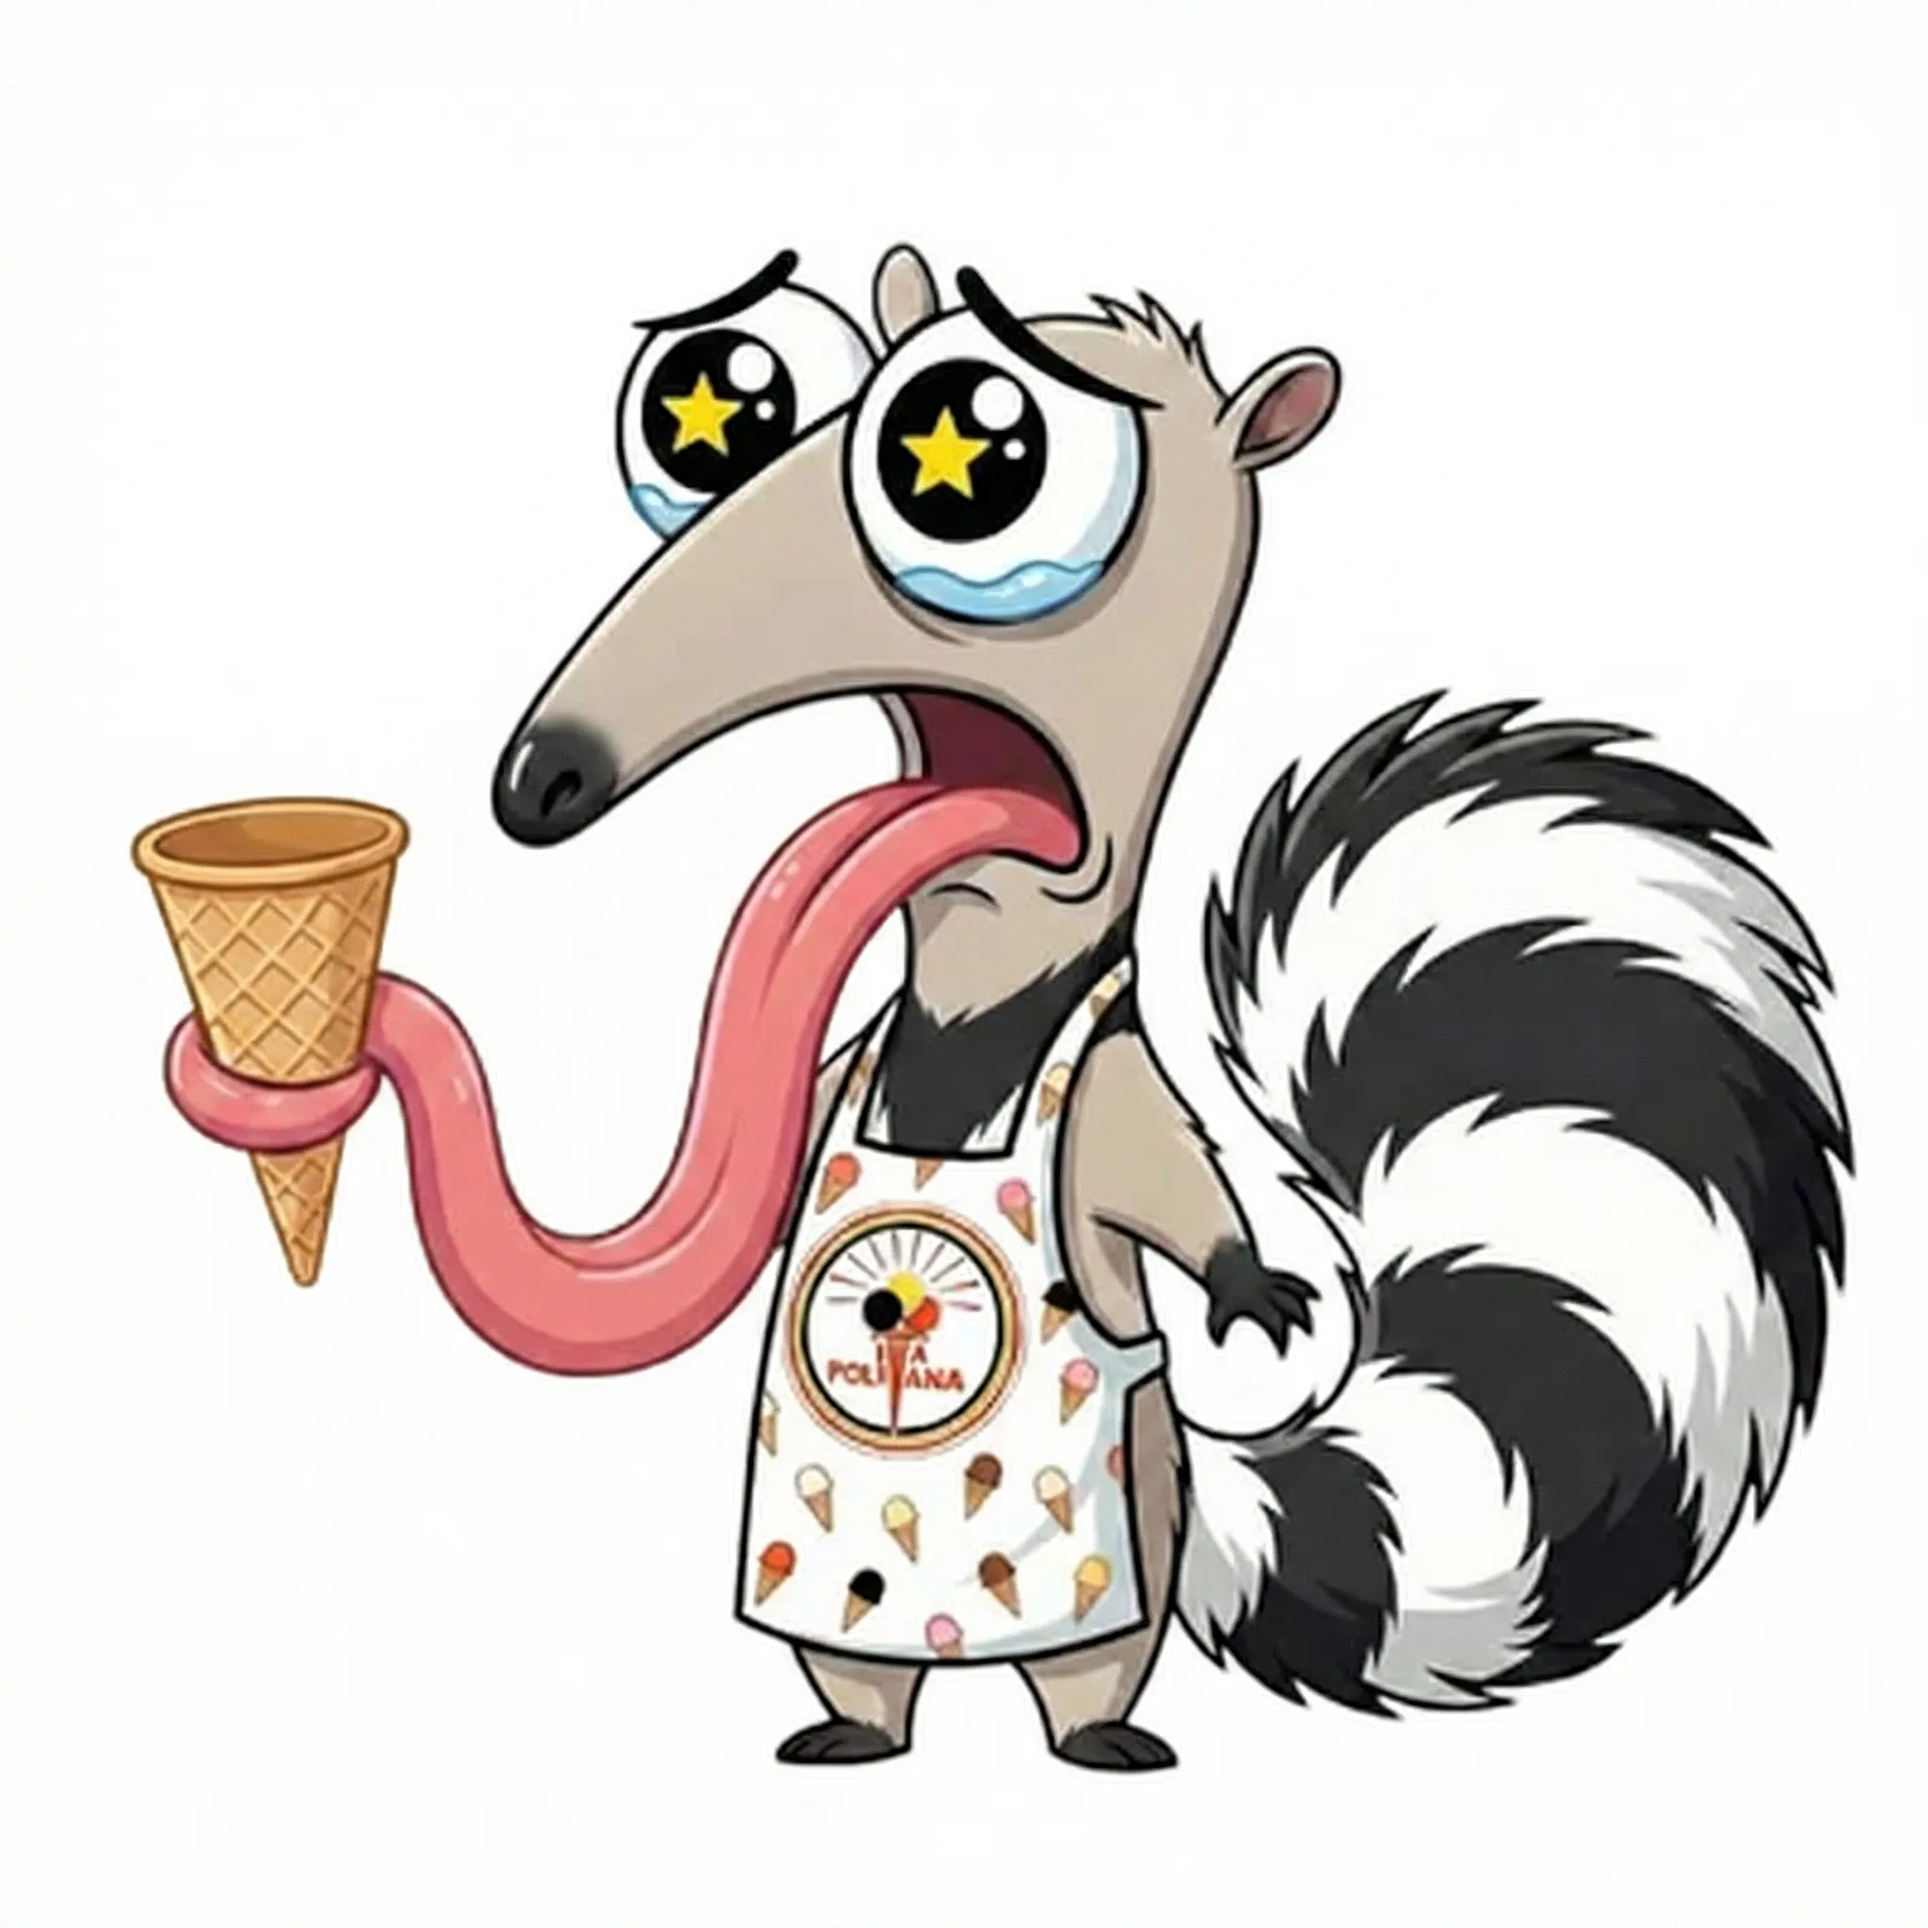
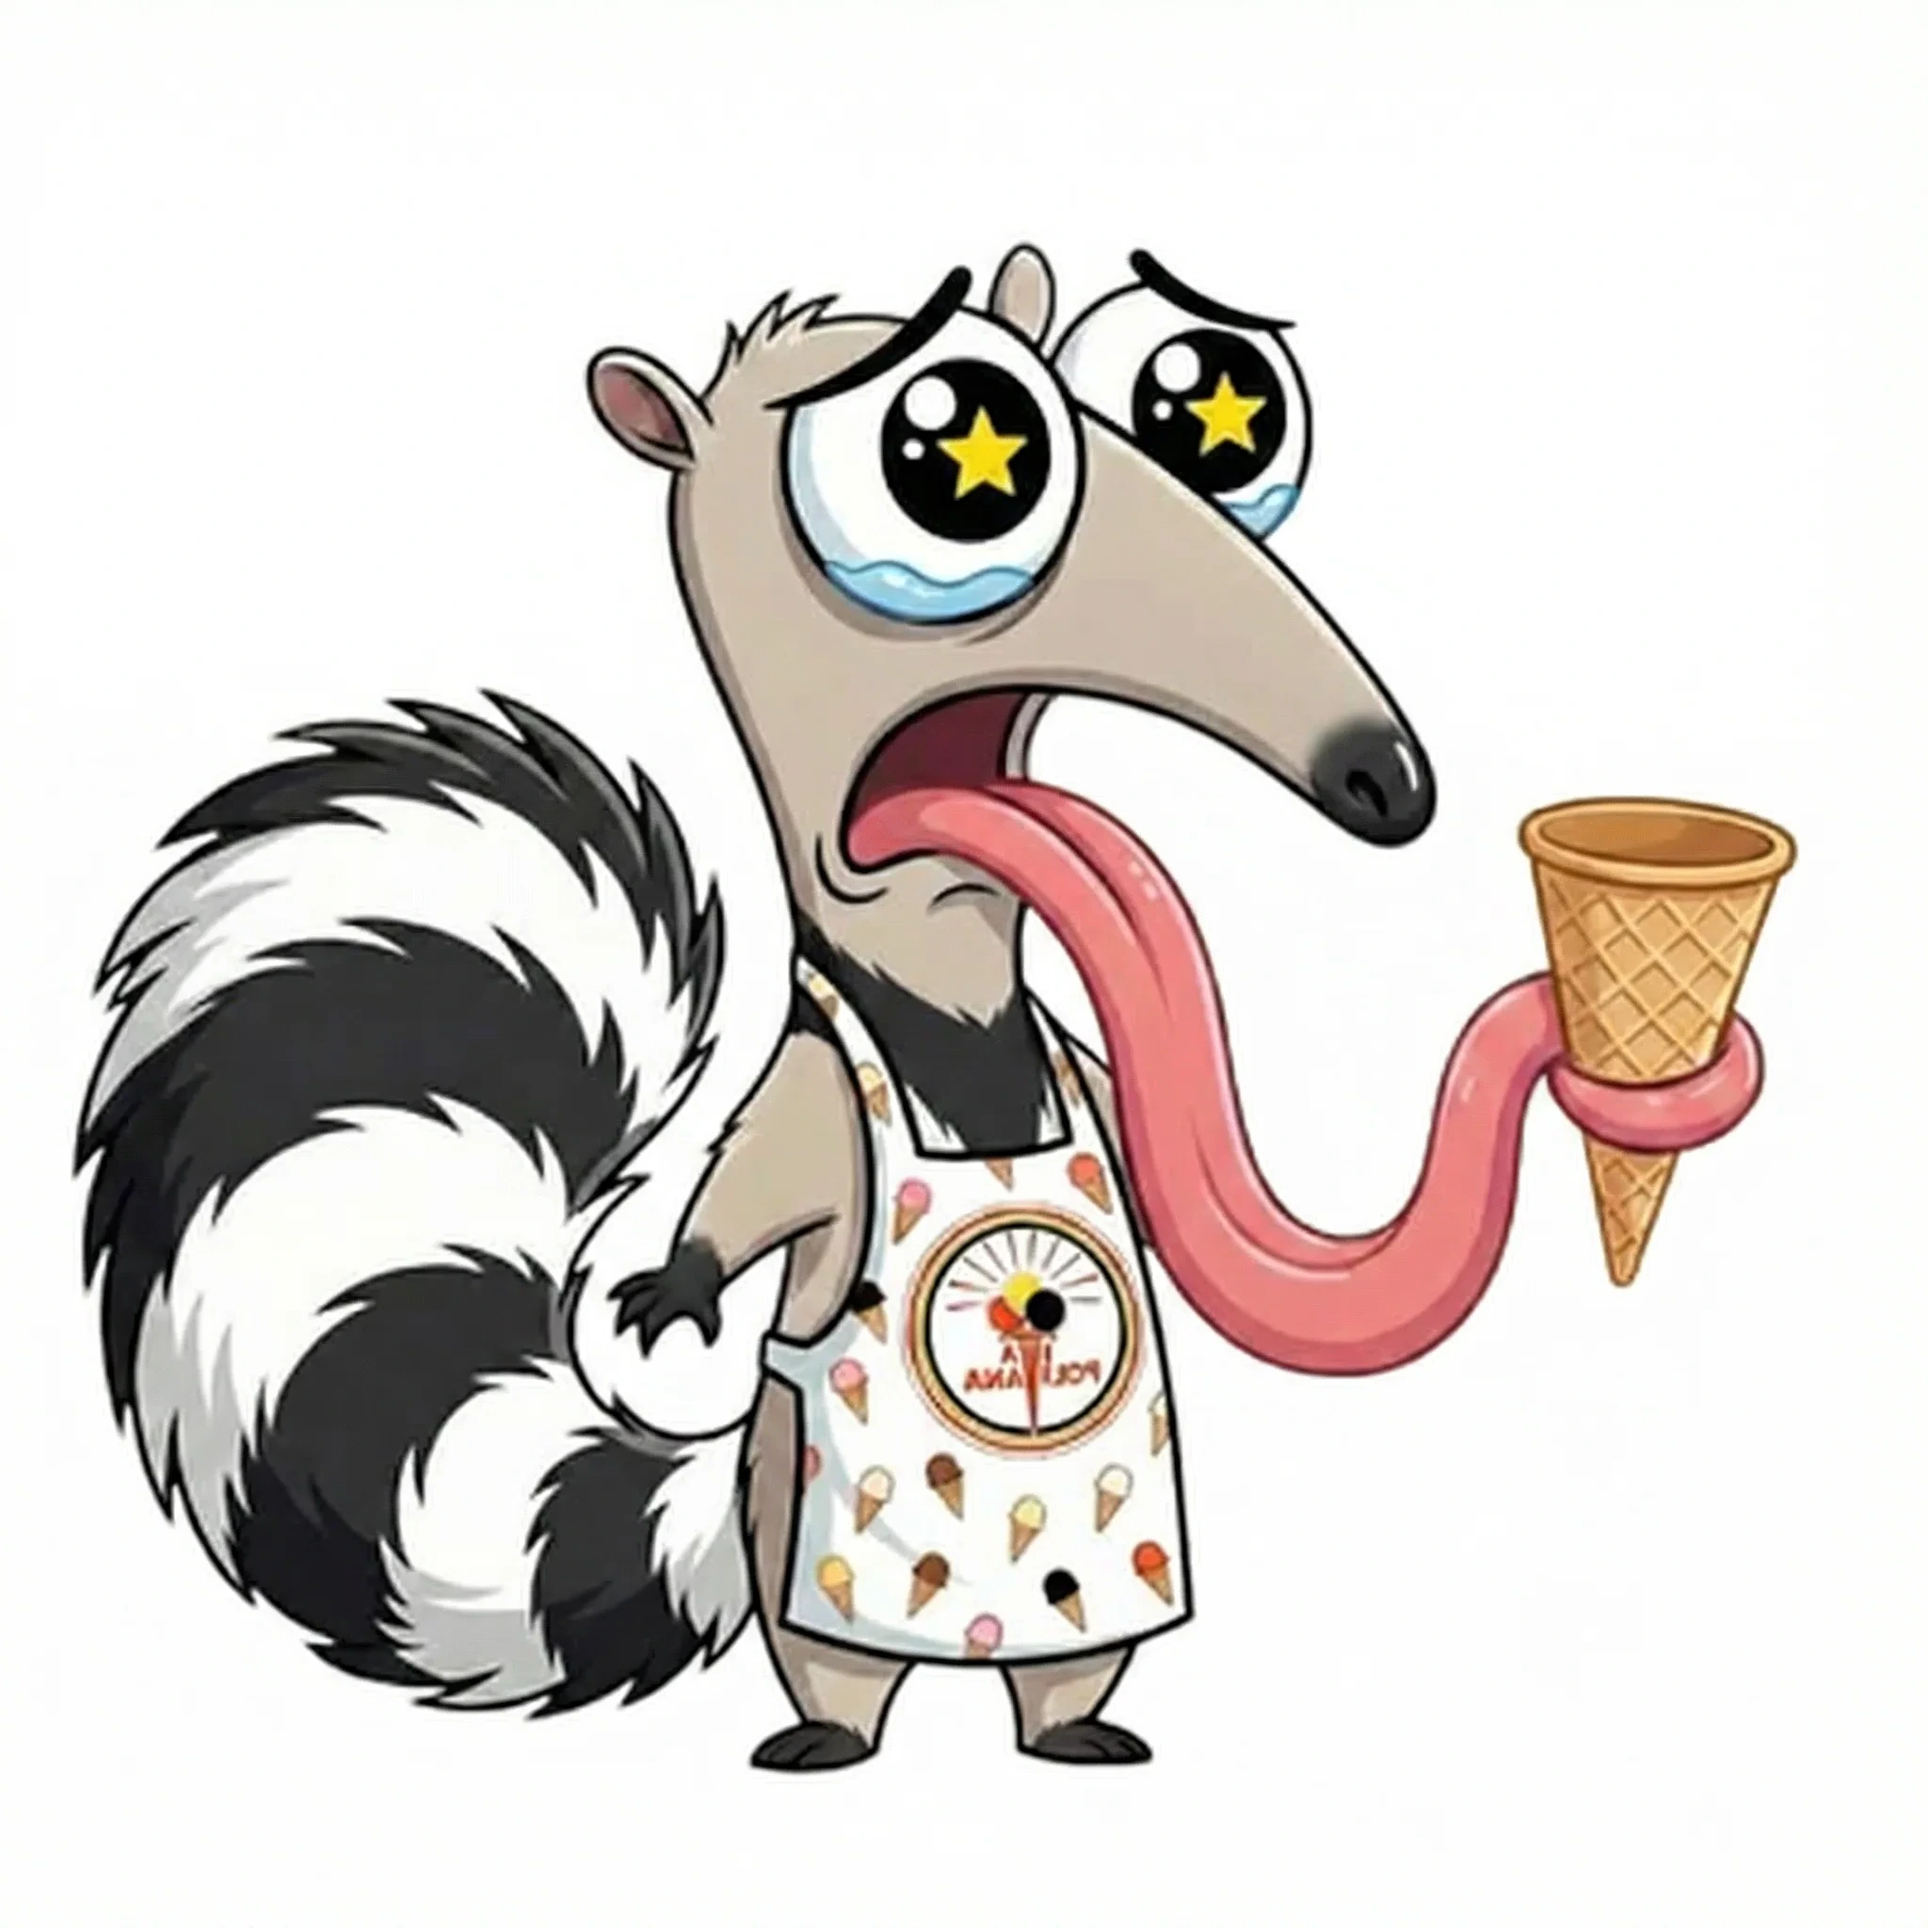
fix: espelhar imagens do mascote — sem scaleX no CSS
- Todas as 4 imagens invertidas horizontalmente com Pillow
- Mascote olha naturalmente para a direita (meio da tela)
- Removido scaleX(-1) da posicao base e trilho ida
- Trilho volta usa scaleX(-1) para ficar de frente ao voltar

diff --git a/mascote.css b/mascote.css
@@ -74,35 +74,35 @@
   -webkit-user-drag: none;
   transform-origin: bottom center;
   transition: filter 0.25s ease;
-  transform: scaleX(-1); /* espelha para olhar para a direita (meio da tela) */
+  /* imagem já espelhada — olha naturalmente para a direita (meio da tela) */
 }
 
 #ita-mascote img:hover {
   filter: drop-shadow(3px 8px 18px rgba(232,0,13,0.5));
   animation-play-state: paused;
-  transform: scaleX(-1) scale(1.08) rotate(-3deg);
+  transform: scale(1.08) rotate(-3deg);
 }
 
-/* TRILHO IDA (vai para DIREITA): scaleX(-1) — olha para direita = de frente na direção do movimento */
+/* TRILHO IDA (vai para DIREITA): imagem já espelhada — olha para direita = de frente */
 #ita-mascote.ita-correndo img {
   animation: ita-correr 0.16s ease-in-out infinite !important;
-  transform: scaleX(-1) !important;
+  transform: none !important;
   cursor: default;
 }
 
-/* TRILHO VOLTA (vem da direita para ESQUERDA): scaleX(1) — olha para esquerda = de frente na direção do movimento */
+/* TRILHO VOLTA (vem da direita para ESQUERDA): espelha de volta = olha para esquerda = de frente */
 #ita-mascote.ita-voltando img {
   animation: ita-correr 0.16s ease-in-out infinite !important;
-  transform: scaleX(1) !important;
+  transform: scaleX(-1) !important;
   cursor: default;
 }
 
 /* ---- Animações ---- */
 
 @keyframes ita-flutuar {
-  0%,100% { transform: translateY(0px) rotate(0deg); }
-  30%      { transform: translateY(-9px) rotate(1.5deg); }
-  70%      { transform: translateY(-15px) rotate(-1.5deg); }
+  0%,100% { transform: translateY(0px) rotate(0deg) scaleX(1); }
+  30%      { transform: translateY(-9px) rotate(1.5deg) scaleX(1); }
+  70%      { transform: translateY(-15px) rotate(-1.5deg) scaleX(1); }
 }
 
 /* Corrida: bounce vertical */

diff --git a/mascote.js b/mascote.js
@@ -273,11 +273,11 @@
     /* ---- FASE 1: Susto ---- */
     balao.classList.remove('ita-balao-show');
     img.style.transition = 'transform 0.12s ease';
-    img.style.transform  = 'scaleX(-1) translateY(-22px) scale(1.18) rotate(10deg)';
+      img.style.transform  = 'translateY(-22px) scale(1.18) rotate(10deg)';
 
     setTimeout(function () {
       img.style.transition = '';
-      img.style.transform  = 'scaleX(-1)';
+      img.style.transform  = '';
 
       /* ---- FASE 2: TRILHO IDA — corre para a DIREITA ---- */
       wrap.style.transition = 'none';
@@ -368,10 +368,11 @@
             wrap.style.right  = 'auto';
             wrap.style.left   = '6px';
             wrap.style.bottom = '160px';
-            wrap.style.transform = 'translateX(0)';
-            void wrap.offsetWidth;
+    wrap.style.transform = 'translateX(0)';
+        void wrap.offsetWidth;
 
-            /* Garante imagem com 3 bolas */
+            /* Garante imagem com 3 bolas e sem transform */
+            img.style.transform = '';
             trocarImagem(img, 3);
 
             var r3 = wrap.getBoundingClientRect();
